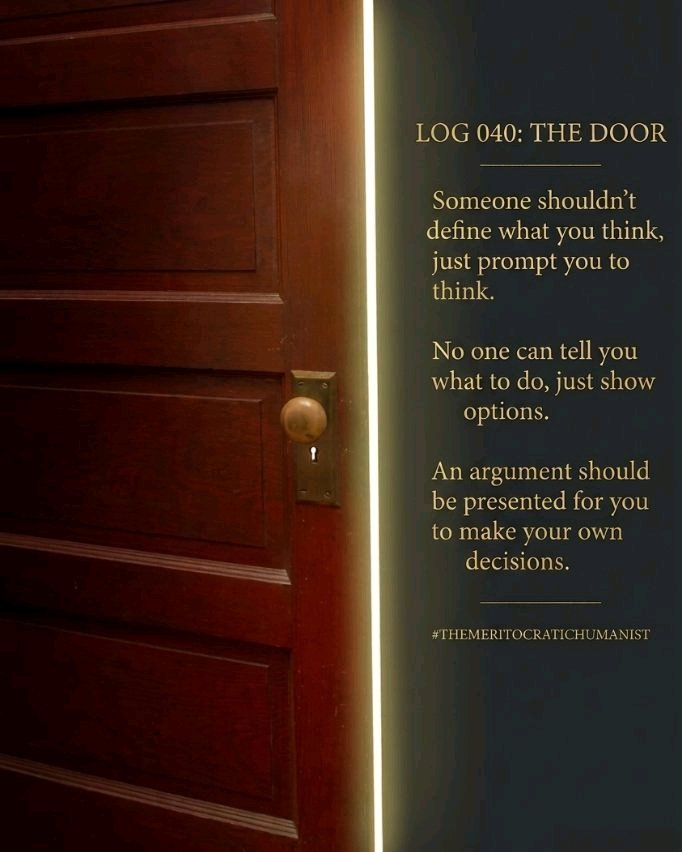
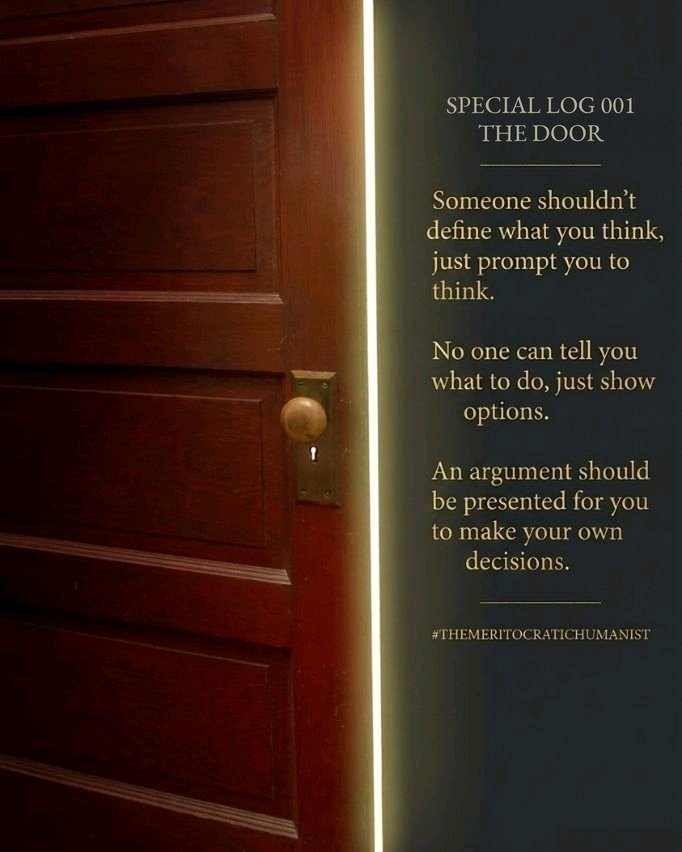
Publish site

Changed region(s): [[0.6158, 0.0915, 0.9853, 0.1831]]

diff --git a/logs/SL001/index.html b/logs/SL001/index.html
@@ -29,7 +29,7 @@
 <p>No one can tell you what to do, just show options.</p>
 <p>An argument should be presented for you to make your own decisions.</p>
 <p><span class="tag">#TheMeritocraticHumanist</span></p></div>
-<div class="gallery single"><div class="gitem"><a href="/logs/SL001/image.jpg"><img src="/logs/SL001/image.jpg" alt="A wooden door standing ajar, light spilling through the gap, beside the text: &quot;Log 040: The Door. Someone shouldn&#x27;t define what you think, just prompt you to think. No one can tell you what to do, just show options. An argument should be presented for you to make your own decisions.&quot;" width="682" height="852" loading="lazy"></a><details class="alt"><summary aria-label="Image description">ALT</summary><p>A wooden door standing ajar, light spilling through the gap, beside the text: &quot;Log 040: The Door. Someone shouldn&#x27;t define what you think, just prompt you to think. No one can tell you what to do, just show options. An argument should be presented for you to make your own decisions.&quot;</p></details></div></div>
+<div class="gallery single"><div class="gitem"><a href="/logs/SL001/image.jpg"><img src="/logs/SL001/image.jpg" alt="A wooden door standing ajar, light spilling through the gap, beside the text: &quot;Special Log 001: The Door. Someone shouldn&#x27;t define what you think, just prompt you to think. No one can tell you what to do, just show options. An argument should be presented for you to make your own decisions.&quot;" width="682" height="852" loading="lazy"></a><details class="alt"><summary aria-label="Image description">ALT</summary><p>A wooden door standing ajar, light spilling through the gap, beside the text: &quot;Special Log 001: The Door. Someone shouldn&#x27;t define what you think, just prompt you to think. No one can tell you what to do, just show options. An argument should be presented for you to make your own decisions.&quot;</p></details></div></div>
 <p class="date">3 April 2026</p>
 <nav class="prevnext"><a class="prev" href="/logs/040/">← Log 040: The Hollow Characters</a><a class="next" href="/logs/041/">Log 041: Ship of Theseus, Refit →</a></nav>
 <p class="back"><a href="/logs/">All Logs</a></p></article>

diff --git a/index.html b/index.html
@@ -37,7 +37,7 @@
 <section class="door"><p class="kicker"><a href="/logs/SL001/">Special Log 001: The Door</a></p><div class="door-body"><div class="door-text"><p>Someone shouldn't define what you think, just prompt you to think.</p>
 <p>No one can tell you what to do, just show options.</p>
 <p>An argument should be presented for you to make your own decisions.</p>
-<p><span class="tag">#TheMeritocraticHumanist</span></p></div><a class="thumb" href="/logs/SL001/"><img src="/logs/SL001/image.jpg" alt="A wooden door standing ajar, light spilling through the gap, beside the text: &quot;Log 040: The Door. Someone shouldn&#x27;t define what you think, just prompt you to think. No one can tell you what to do, just show options. An argument should be presented for you to make your own decisions.&quot;"></a></div></section>
+<p><span class="tag">#TheMeritocraticHumanist</span></p></div><a class="thumb" href="/logs/SL001/"><img src="/logs/SL001/image.jpg" alt="A wooden door standing ajar, light spilling through the gap, beside the text: &quot;Special Log 001: The Door. Someone shouldn&#x27;t define what you think, just prompt you to think. No one can tell you what to do, just show options. An argument should be presented for you to make your own decisions.&quot;"></a></div></section>
   </main>
   <footer class="site">
     <nav class="social"><a href="https://x.com/MeritHumanist">X</a><a href="https://www.threads.com/@merithumanist">Threads</a><a href="https://www.facebook.com/TheMeritocraticHumanist">Facebook</a><a href="https://www.instagram.com/merithumanist">Instagram</a><a href="https://www.youtube.com/@merithumanist">YouTube</a></nav>
